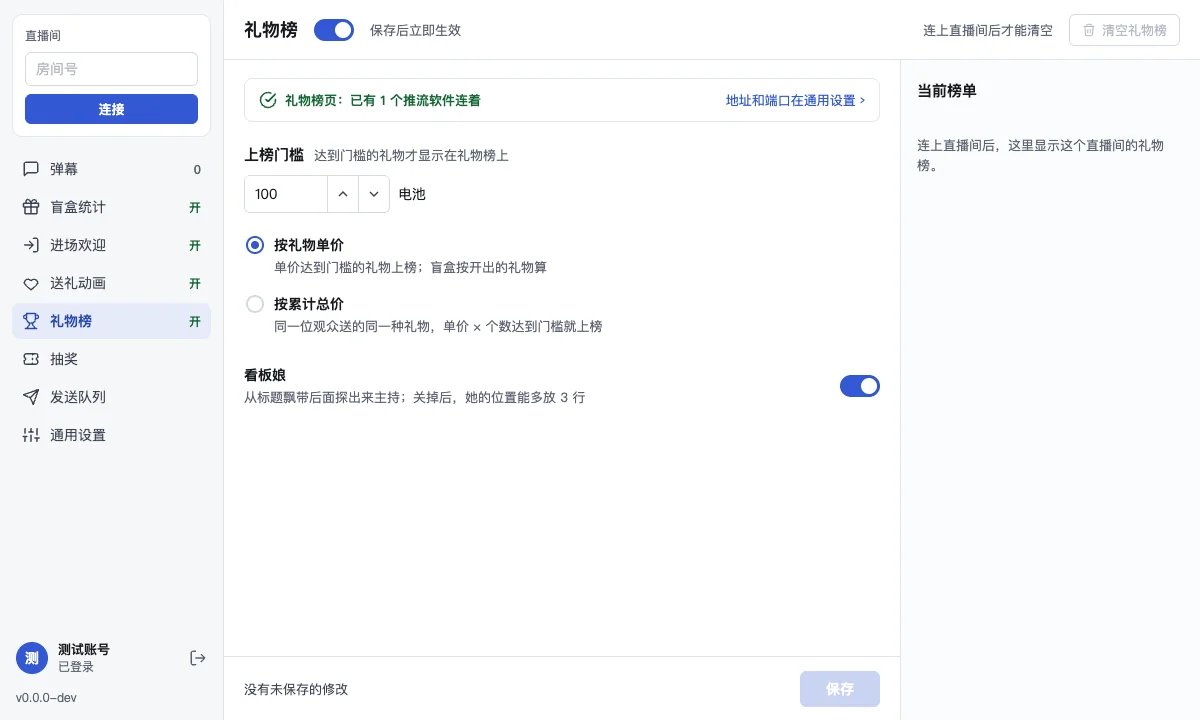
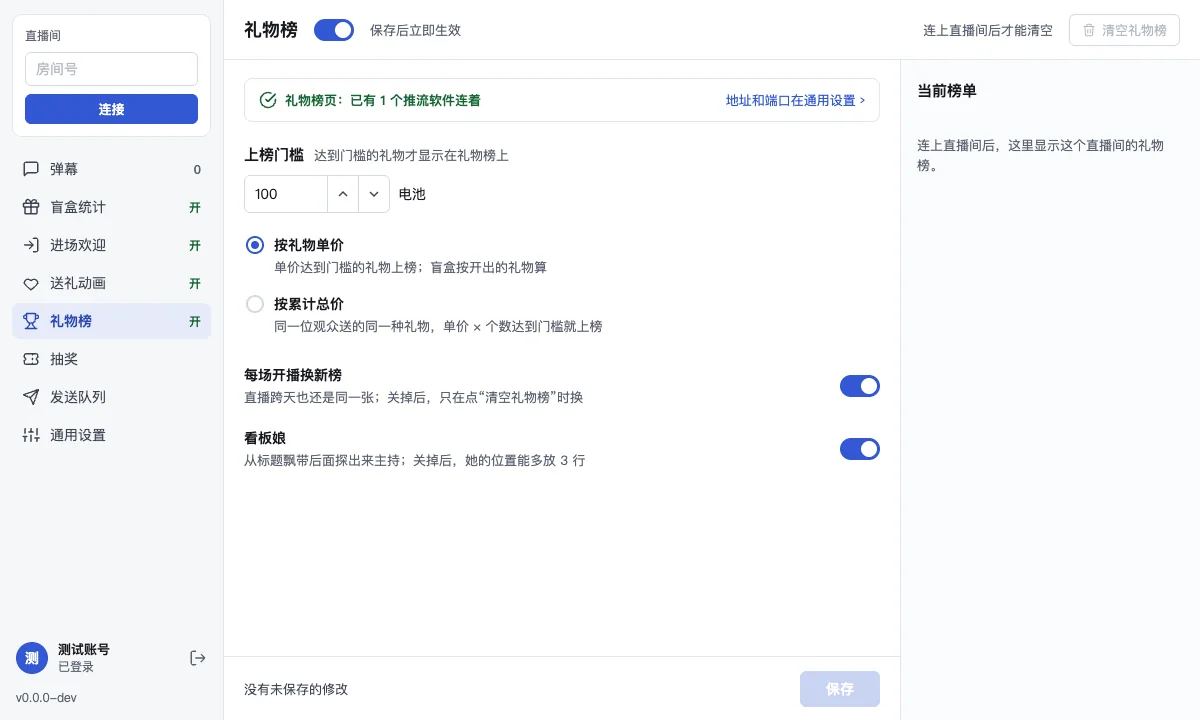
docs: add the per-live new board switch to the gift board settings (#296)

Changed region(s): [[0.185, 0.4889, 0.4933, 0.6722], [0.6783, 0.6111, 0.74, 0.6417]]

diff --git a/docs/design/gift-board/boards/GS1-GiftBoardSettings.dc.html b/docs/design/gift-board/boards/GS1-GiftBoardSettings.dc.html
@@ -110,6 +110,14 @@ a{color:#3358D4}a:hover{color:#2A47B0}
 
           <section style="display: flex; align-items: center; gap: 16px">
             <div style="flex: 1; display: flex; flex-direction: column; gap: 3px">
+              <h2 style="margin: 0; font-size: 14px; font-weight: 600">每场开播换新榜</h2>
+              <span style="font-size: 13px; color: {{t.muted}}; white-space: nowrap">直播跨天也还是同一张；关掉后，只在点“清空礼物榜”时换</span>
+            </div>
+            <button type="button" role="switch" aria-checked="{{perLive.on}}" aria-label="每场开播换新榜" onClick="{{perLive.toggle}}" style="position: relative; width: 40px; height: 22px; border: 0; border-radius: 11px; background: {{perLive.bg}}; padding: 0"><span style="position: absolute; top: 3px; left: {{perLive.knob}}; width: 16px; height: 16px; border-radius: 50%; background: #fff"></span></button>
+          </section>
+
+          <section style="display: flex; align-items: center; gap: 16px">
+            <div style="flex: 1; display: flex; flex-direction: column; gap: 3px">
               <h2 style="margin: 0; font-size: 14px; font-weight: 600">看板娘</h2>
               <span style="font-size: 13px; color: {{t.muted}}; white-space: nowrap">从标题飘带后面探出来主持；关掉后，她的位置能多放 3 行</span>
             </div>
@@ -230,7 +238,7 @@ class Component extends DCLogic {
     const scene = this.props.scene ?? '默认';
     const [w, h] = (this.props.size ?? '1200 × 720') === '1040 × 600' ? [1040, 600] : [1200, 720];
     const connected = scene !== '没连直播间';
-    const enabled = s.enabled ?? true, mascotOn = s.mascot ?? true;
+    const enabled = s.enabled ?? true, mascotOn = s.mascot ?? true, perLiveOn = s.perLive ?? true;
     const mode = s.mode ?? (scene === '按累计总价' ? 2 : 1);
     const threshold = 100;
     const cleared = s.cleared === true;
@@ -269,7 +277,7 @@ class Component extends DCLogic {
       { id: 1, title: '按礼物单价', note: '单价达到门槛的礼物上榜；盲盒按开出的礼物算' },
       { id: 2, title: '按累计总价', note: '同一位观众送的同一种礼物，单价 × 个数达到门槛就上榜' }
     ].map(m => ({ ...m, checked: m.id === mode ? 'true' : 'false', ring: '2px solid ' + (m.id === mode ? t.accent : t.control), dot: m.id === mode ? t.accent : 'transparent', pick: () => this.setState({ mode: m.id }) }));
-    const dirty = mode !== (scene === '按累计总价' ? 2 : 1) || enabled !== true || mascotOn !== true;
+    const dirty = mode !== (scene === '按累计总价' ? 2 : 1) || enabled !== true || mascotOn !== true || perLiveOn !== true;
     const pageOk = scene !== '礼物榜页没连上';
     const asideCount = rows.length ? '共 ' + rows.length + ' 位' : '';
     const emptyText = !connected ? '连上直播间后，这里显示这个直播间的礼物榜。' : !enabled ? '礼物榜关着，不记录也不显示。' : '还没有人上榜。达到门槛的礼物会出现在这里和直播画面上。';
@@ -281,7 +289,7 @@ class Component extends DCLogic {
 
     return {
       t, w, h, connected, offline: !connected, isBoard: page === '礼物榜', isGeneral: page === '通用设置', nav, pages,
-      onSwitch: this.toggle(t, 'enabled', enabled), mascot: this.toggle(t, 'mascot', mascotOn), modes, threshold: String(threshold),
+      onSwitch: this.toggle(t, 'enabled', enabled), perLive: this.toggle(t, 'perLive', perLiveOn), mascot: this.toggle(t, 'mascot', mascotOn), modes, threshold: String(threshold),
       pageOk: pageOk && enabled, pageWaiting: !pageOk && enabled,
       rows, hasRows: rows.length > 0, noRows: rows.length === 0, asideCount, emptyText, count: rows.length,
       clearDisabled: !connected || rows.length === 0 ? 'true' : null, clearColor: !connected || rows.length === 0 ? t.disabled : t.danger,

diff --git a/docs/design/gift-board/README.md b/docs/design/gift-board/README.md
@@ -118,6 +118,7 @@ node docs/design/gift-board/tools/server.mjs 8799
 - **清空**：点了以后底部栏换成“清空后直播画面上的礼物榜也会变空，确定吗？ 取消 清空”，“清空”是红底按钮，做法同抽奖的“结束”。清空后底部栏写“已清空直播间 1768506153 的礼物榜”。
 - **礼物榜页状态条**：做法同送礼动画页的视频页状态条。没有推流软件连着时，换成黄色提醒和接入步骤。
 - **上榜门槛**：数字框（正整数）加“电池”；下面两个单选，“按礼物单价”和“按累计总价”，各带一行说明。
+- **每场开播换新榜**：放在门槛下面、看板娘上面，一行标题加说明“直播跨天也还是同一张；关掉后，只在点“清空礼物榜”时换”，开关在右边，默认开。
 - **看板娘**：一行标题加说明“从标题飘带后面探出来主持；关掉后，她的位置能多放 3 行”，开关在右边，默认开。
 - **右栏“当前榜单”**：只读，顺序和礼物榜页完全一样。每行是名次（斜体数字，前三名金、灰、蓝）、昵称（放不下时省略号）、礼物 × 个数，以及这一行的价值（电池）。右上角写“共 N 位”。没有内容时按情况提示：没连直播间、礼物榜关着、还没有人上榜。
 - **通用设置**：网页服务的页面列表在视频页、抽奖页后面加“礼物榜页”，说明写“送礼观众的排行 · 素材 480 × 1000，可放大”，因为它不是那两个页面的 1920 × 1080；连接状态和复制按钮同另外两个页面。
